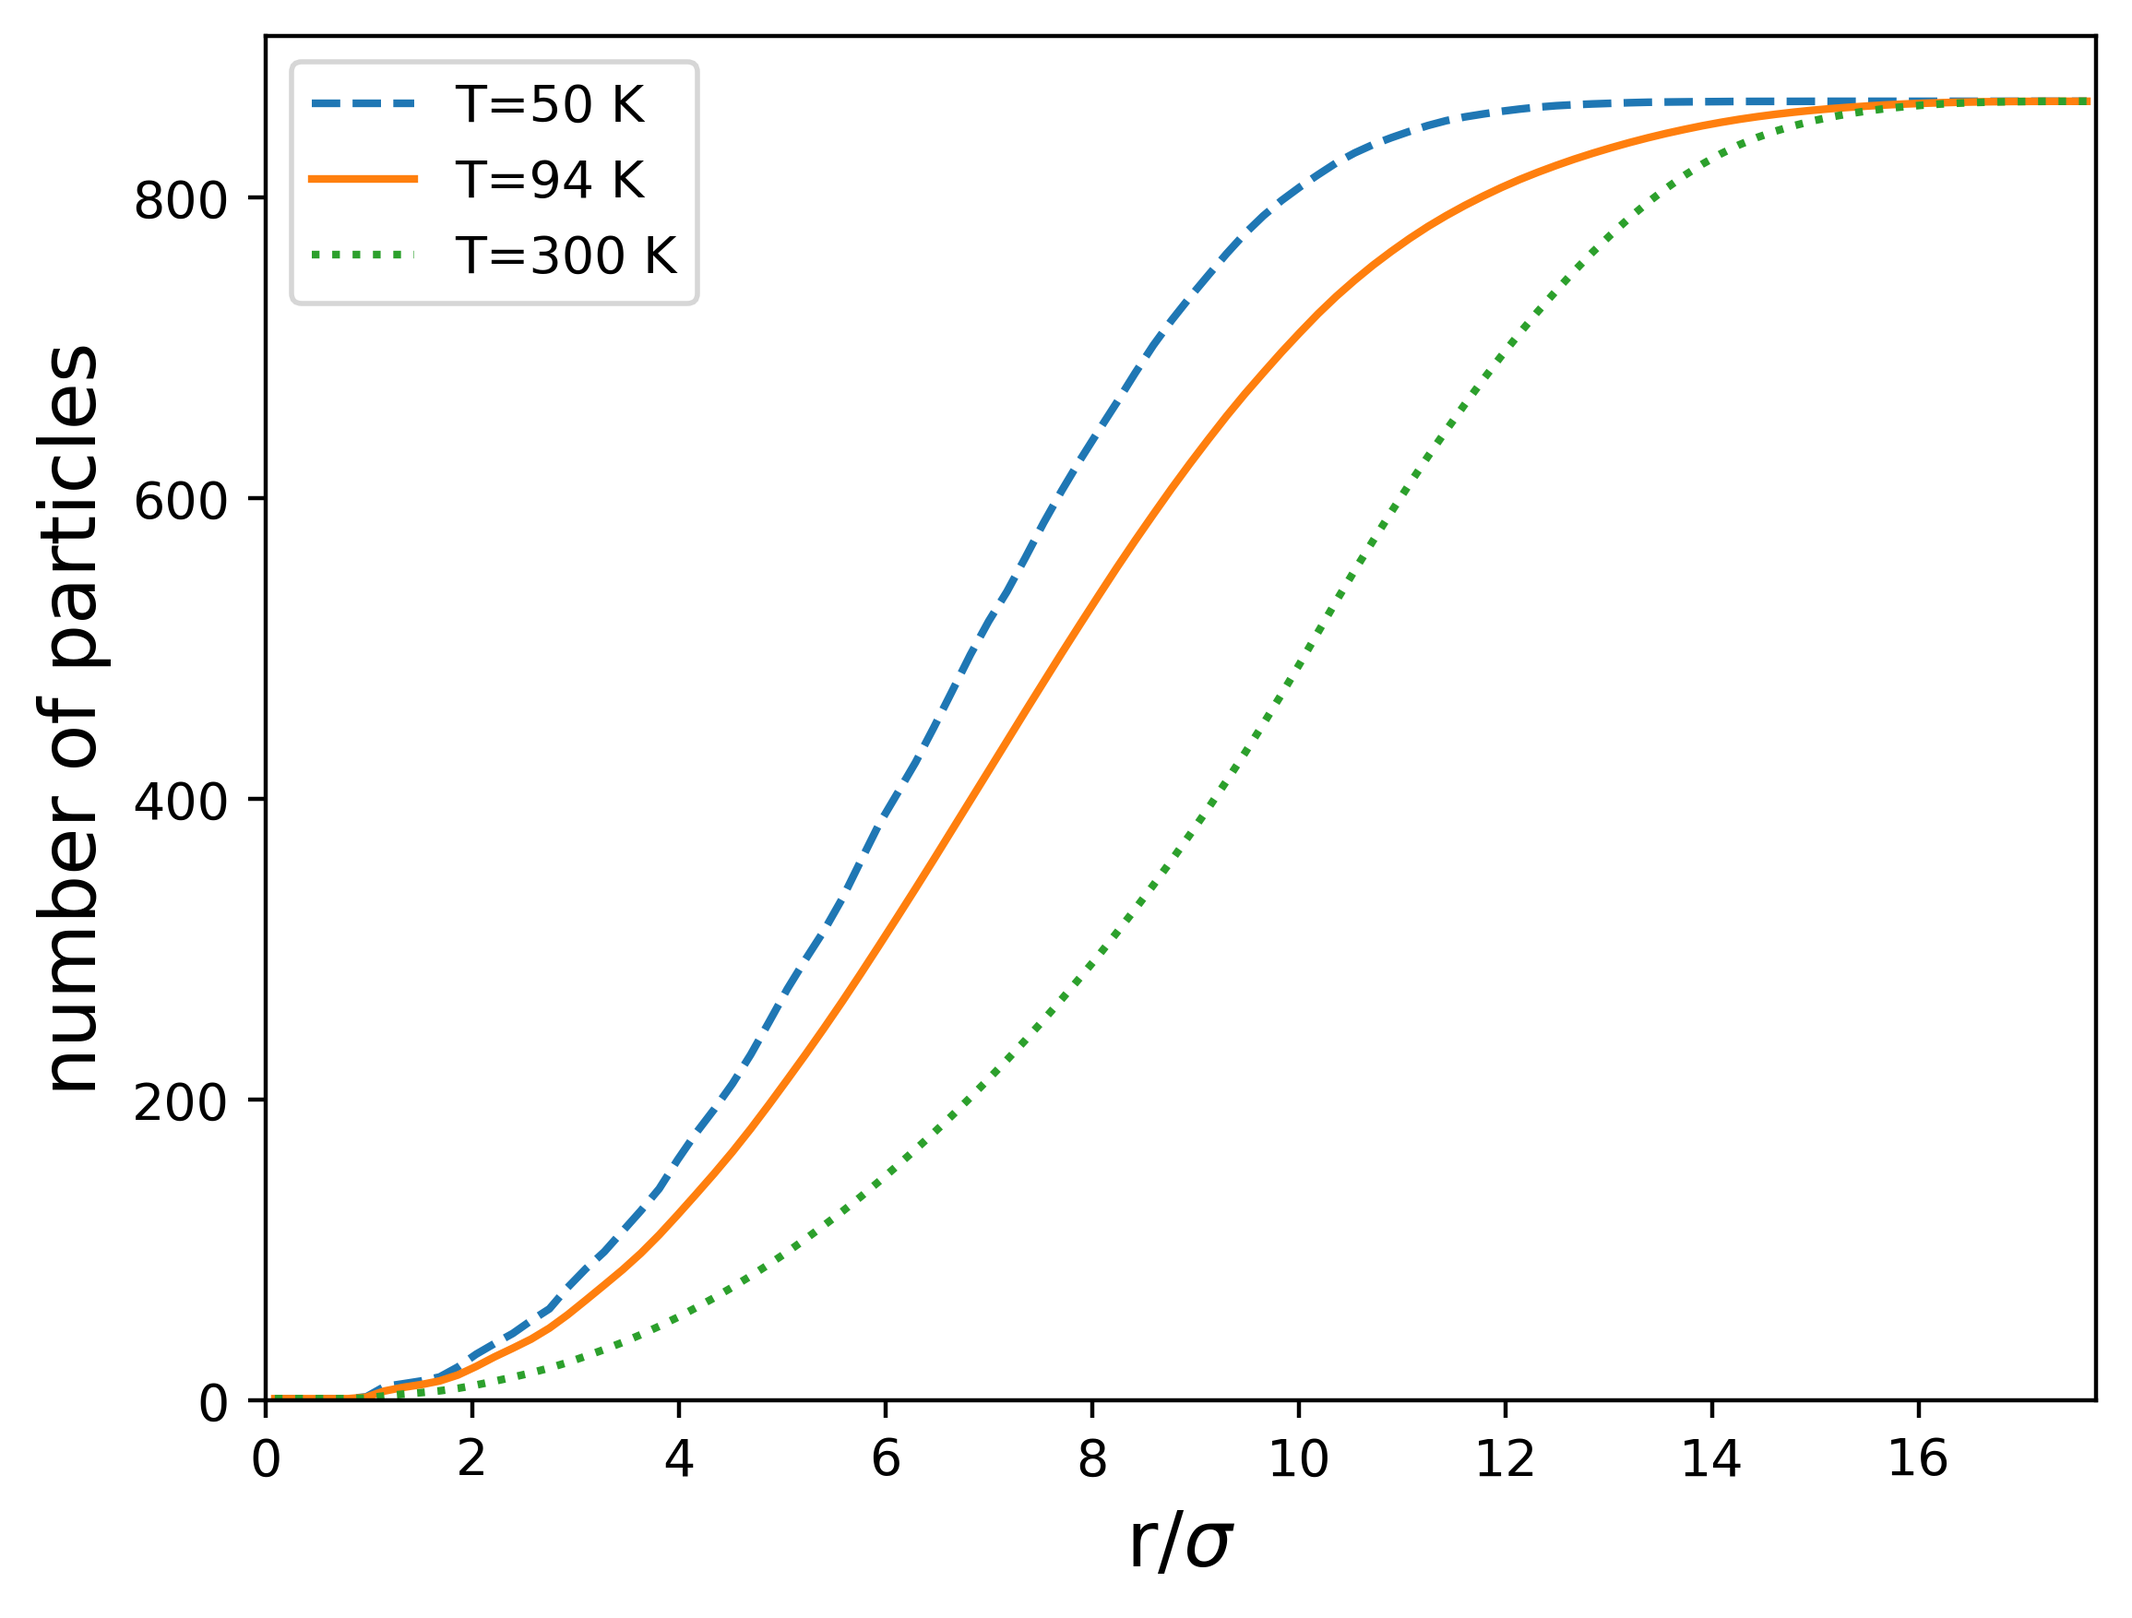
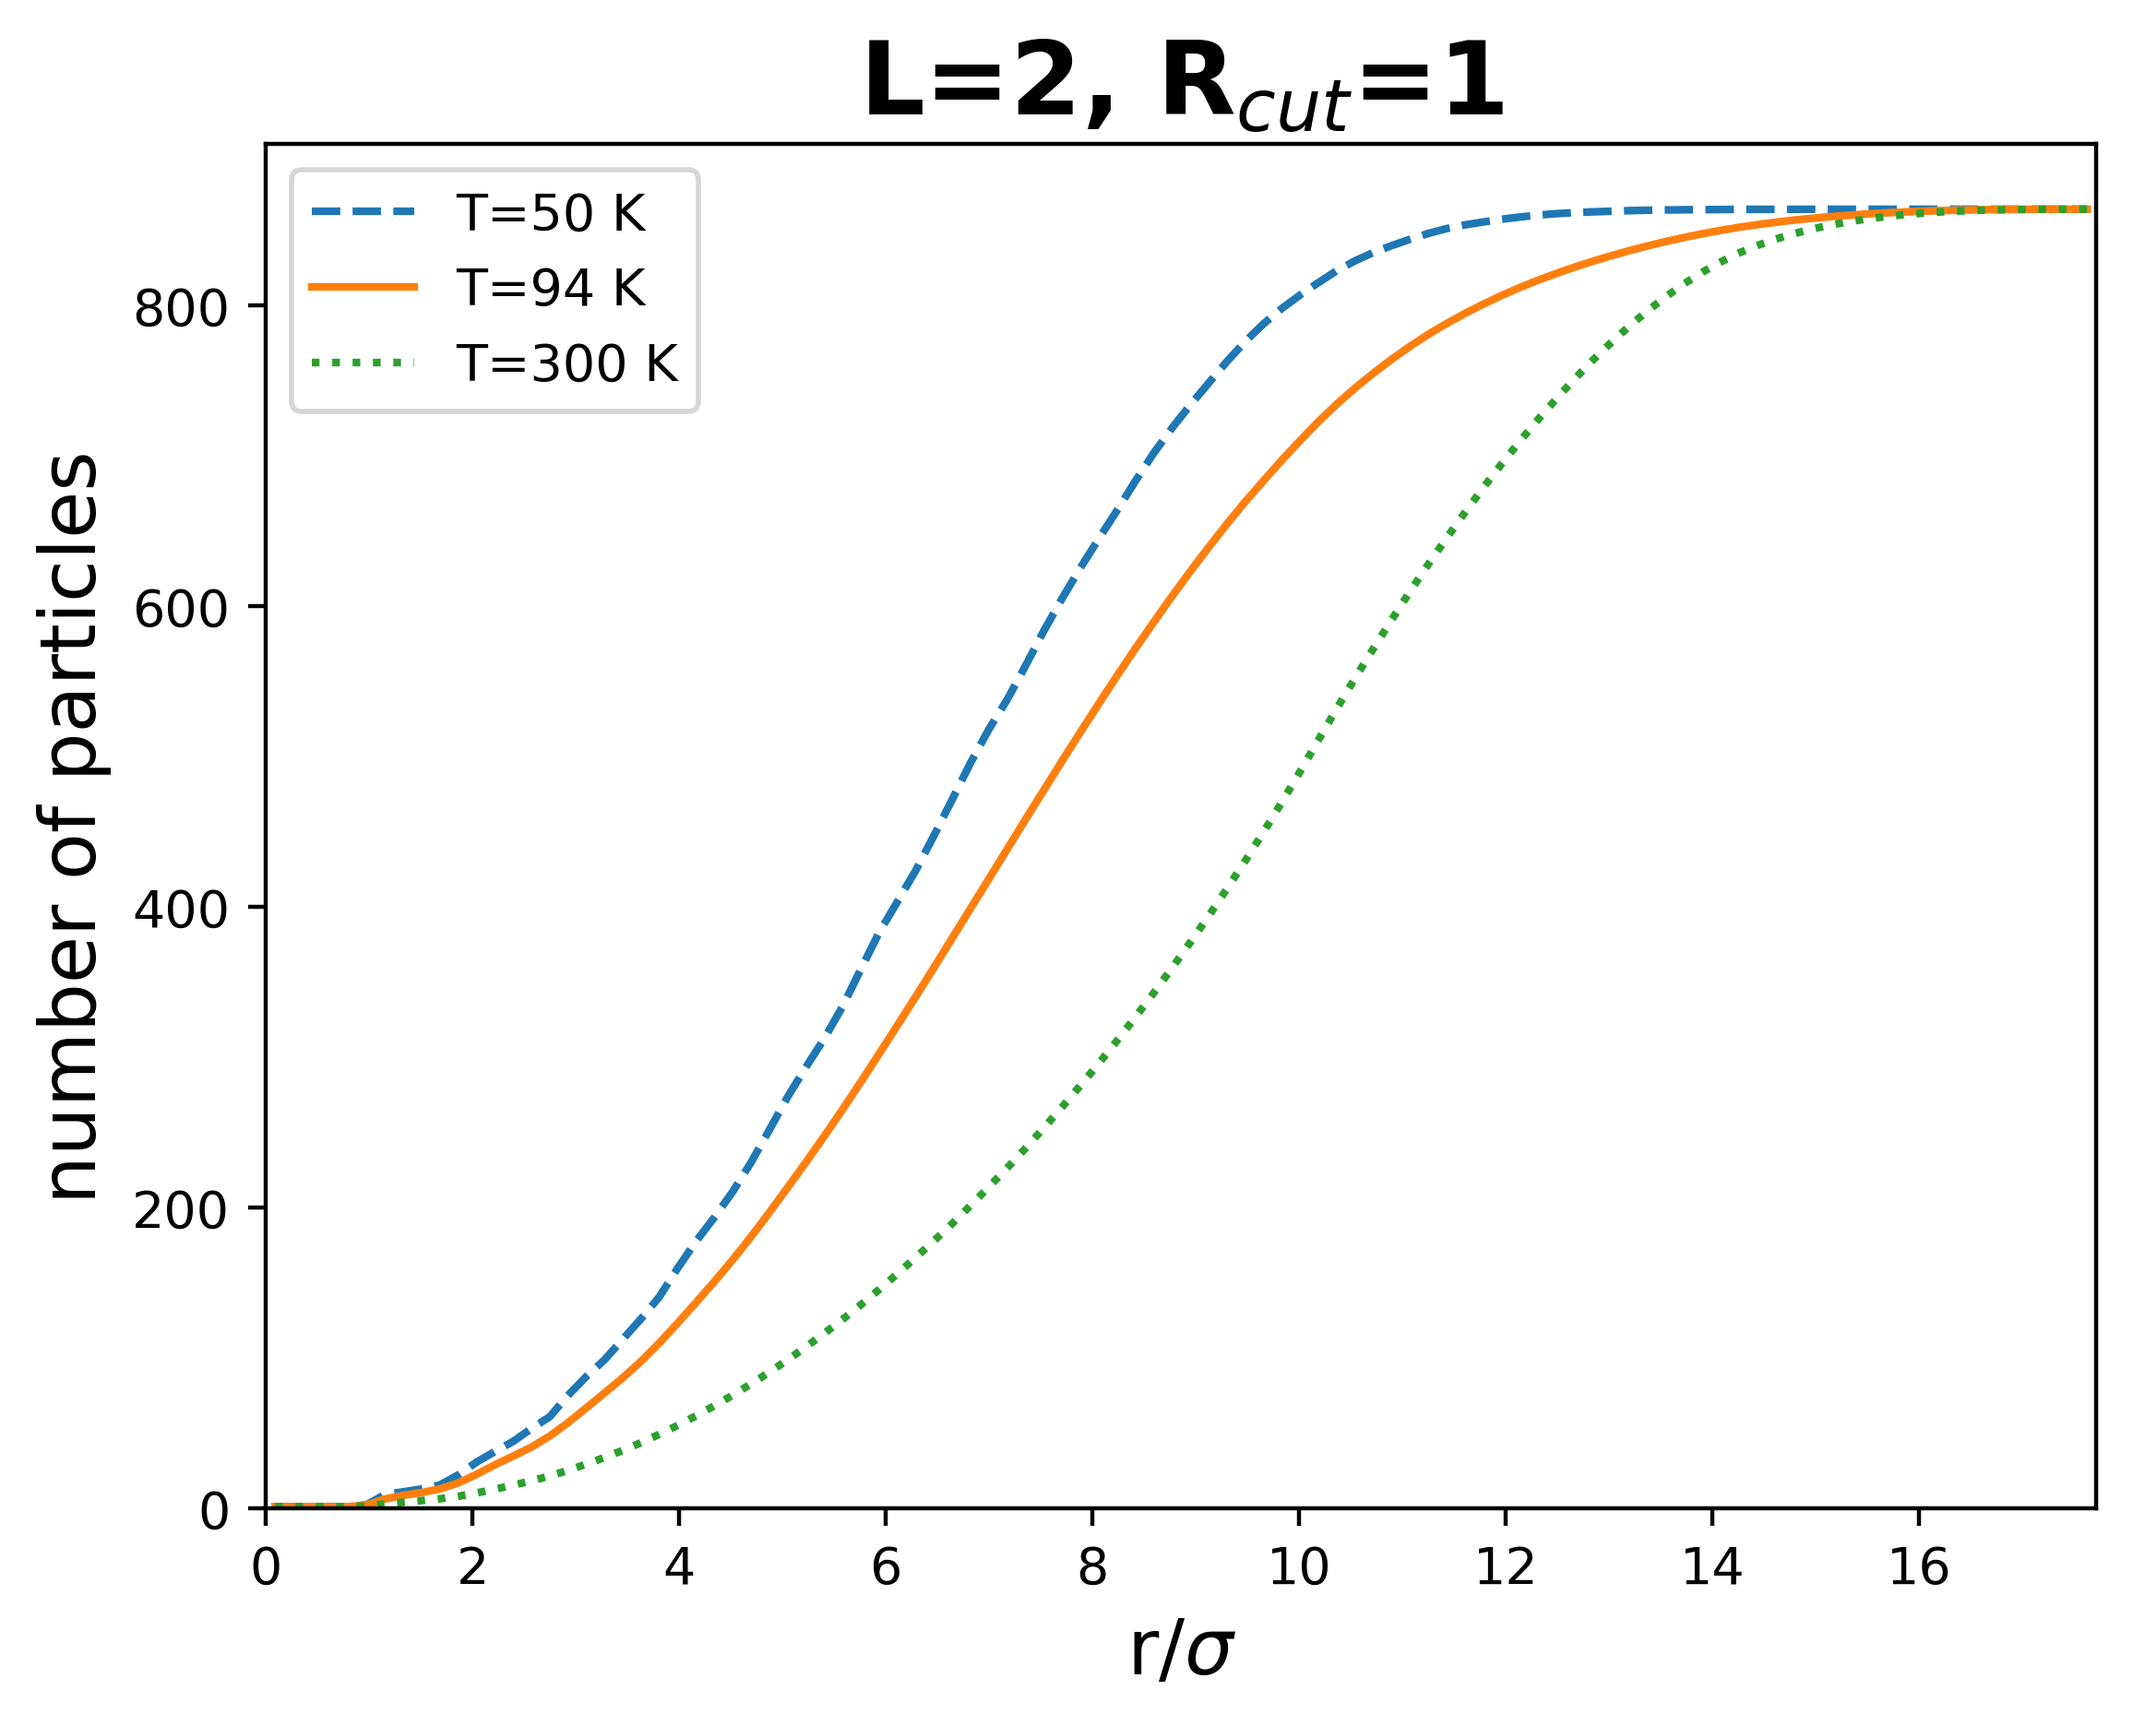
include titles to graphs

diff --git a/instances.py b/instances.py
@@ -9,9 +9,9 @@ import time
 file_format = "png"
 dpi = 400
 
-temp = 94
+temp = 50
 thermo_rate = 10
-box_scale = 2
+box_scale = 1
 rcut_scale = 1
 equilibration = 500
 Niter = 2000
@@ -30,7 +30,7 @@ ins = MolDyn(
 )
 # time the execution
 start = time.time()
-ins.run_md()
+# ins.run_md()
 end = time.time()
 print("execution time: ", end - start)
 
@@ -51,6 +51,7 @@ ins = Plots(
 
 fig, ax = plt.subplots()
 ins.plot_temp(start_time=500, fig=fig, ax=ax)
+
 fig.savefig(
     f"plots/temperatures_T{temp}_L{box_scale}_Rc{rcut_scale}_Tr{thermo_rate}_Eq{equilibration}_step{Niter}.{file_format}",
     bbox_inches="tight",
@@ -75,6 +76,11 @@ ins = Plots(
 )
 fig, ax = plt.subplots()
 ins.plot_rdf(label=f"T={temp} K", fmt="o-", fig=fig, ax=ax)
+ax.set_title(
+    rf"T={temp} K, L={box_scale}, R$_{{cut}}$={rcut_scale}",
+    fontsize=20,
+    fontweight="bold",
+)
 fig.savefig(
     f"plots/rdf_T{temp}_L{box_scale}_Rc{rcut_scale}_Tr{thermo_rate}_Eq{equilibration}_step{Niter}.{file_format}",
     bbox_inches="tight",
@@ -118,13 +124,16 @@ fig, ax = plt.subplots()
 ins_50.plot_rdf(label="T=50 K", fmt="o-", fig=fig, ax=ax)
 ins_94.plot_rdf(label="T=94 K", fmt="s-", fig=fig, ax=ax)
 ins_300.plot_rdf(label="T=300 K", fmt="^-", fig=fig, ax=ax)
-# fig.savefig(
-#     f"plots/rdf_combined_L{box_scale}_Rc{rcut_scale}_Tr{thermo_rate}_Eq{equilibration}_step{Niter}.{file_format}",
-#     bbox_inches="tight",
-#     dpi=dpi,
-# )
-ax.set_xlim(0,ins_50.L*np.sqrt(3)/(2*ins_50.sigma))
-ax.axhline(1, 0, ins_50.L * np.sqrt(3) / (2 * ins_50.sigma))
+ax.set_title(
+    rf"L={box_scale}, R$_{{cut}}$={rcut_scale}",
+    fontsize=20,
+    fontweight="bold",
+)
+fig.savefig(
+    f"plots/rdf_combined_L{box_scale}_Rc{rcut_scale}_Tr{thermo_rate}_Eq{equilibration}_step{Niter}.{file_format}",
+    bbox_inches="tight",
+    dpi=dpi,
+)
 # %%
 """
 CDF Plot
@@ -133,6 +142,11 @@ fig, ax = plt.subplots()
 ins_50.plot_cdf(label=f"T=50 K", fig=fig, ax=ax, linestyle="--")
 ins_94.plot_cdf(label=f"T=94 K", fig=fig, ax=ax, linestyle="-")
 ins_300.plot_cdf(label=f"T=300 K", fig=fig, ax=ax, linestyle=":")
+ax.set_title(
+    rf"L={box_scale}, R$_{{cut}}$={rcut_scale}",
+    fontsize=20,
+    fontweight="bold",
+)
 fig.savefig(
     f"plots/cdf_combined_L{box_scale}_Rc{rcut_scale}_Tr{thermo_rate}_Eq{equilibration}_step{Niter}.{file_format}",
     bbox_inches="tight",
@@ -149,7 +163,6 @@ ax.axhline(
 ax.axhline(
     12 + 6 + 24, 0, ins_50.Rcut / ins.sigma, color="black", linestyle=":", linewidth=1
 )
-
 fig.savefig(
     f"plots/cdf_combined_L{box_scale}_Rc{rcut_scale}_Tr{thermo_rate}_Eq{equilibration}_step{Niter}_zoom.{file_format}",
     bbox_inches="tight",

diff --git a/Plots.py b/Plots.py
@@ -33,6 +33,12 @@ class Plots(RDF):
         np.mean(self.temp_arr[start_time:])
         ax.set_xlabel(r"timestep (t/$\Delta$t)", fontsize=15)
         ax.set_ylabel("Temperature (K)", fontsize=15)
+        ax.set_xlim(start_time, self.Niter)
+        ax.set_title(
+            rf"T={self.Temp} K, L={self.box_scale}, R$_{{cut}}$={self.rcut_scale}",
+            fontsize=20,
+            fontweight="bold",
+        )
 
     def plot_rdf(
         self,
@@ -53,7 +59,7 @@ class Plots(RDF):
         )
         ax.set_ylabel("radial distribution function", fontsize=15)
         ax.set_xlabel(r"r/$\sigma$", fontsize=15)
-        ax.set_xlim(0, 5)
+        ax.set_xlim(0, self.L * np.sqrt(3) / (4 * self.sigma))
         ax.set_ylim(0)
         ax.legend()
 
@@ -68,7 +74,7 @@ class Plots(RDF):
 
     def make_animation(self, frame_folder):
         ax = plt.figure().add_subplot(projection="3d")
-        plt.subplots_adjust(right=1, top=1, left=0, bottom=0)
+        plt.subplots_adjust(right=1, top=0.92, left=0, bottom=0)
         for t in np.linspace(0, self.Niter, num=50, endpoint=False):
             t = int(t)
             ax.clear()
@@ -83,6 +89,11 @@ class Plots(RDF):
                 self.pos_config[t, :, 1] / 1e-10,
                 self.pos_config[t, :, 2] / 1e-10,
             )
+            plt.title(
+                rf"T={self.Temp} K, L={self.box_scale}, R$_{{cut}}$={self.rcut_scale}",
+                fontsize=20,
+                fontweight="bold",
+            )
             plt.savefig(f"{frame_folder}/{t}.png", dpi=100)
 
         frames = [
@@ -90,7 +101,7 @@ class Plots(RDF):
         ]
         frame_one = frames[0]
         frame_one.save(
-            f"animate_T{self.Temp}_L{self.box_scale}_Rc{self.rcut_scale}_Tr{self.thermo_rate}_Eq{self.equilibration}_step{self.Niter}.gif",
+            f"plots/animate_T{self.Temp}_L{self.box_scale}_Rc{self.rcut_scale}_Tr{self.thermo_rate}_Eq{self.equilibration}_step{self.Niter}.gif",
             format="GIF",
             append_images=frames,
             save_all=True,

diff --git a/compare_rcut.py b/compare_rcut.py
@@ -42,8 +42,11 @@ ins_2 = Plots(
 fig, ax = plt.subplots()
 ins_1.plot_rdf(label=r"$R_{cut}=1$", fmt="o-", fig=fig, ax=ax)
 ins_2.plot_rdf(label=r"$R_{cut}=2$", fmt="s-", fig=fig, ax=ax)
-ax.set_xlim(0, 6)
-
+ax.set_title(
+    rf"T={temp} K, L={box_scale}",
+    fontsize=20,
+    fontweight="bold",
+)
 fig.savefig(
     f"plots/rdf_combined_T{temp}_L{box_scale}_Tr{thermo_rate}_Eq{equilibration}_step{Niter}.{file_format}",
     bbox_inches="tight",
@@ -57,6 +60,11 @@ CDF Plot
 fig, ax = plt.subplots()
 ins_1.plot_cdf(label=r"$R_{cut}=1$", fig=fig, ax=ax, linestyle="--")
 ins_2.plot_cdf(label=r"$R_{cut}=2$", fig=fig, ax=ax, linestyle="-")
+ax.set_title(
+    rf"T={temp} K, L={box_scale}",
+    fontsize=20,
+    fontweight="bold",
+)
 fig.savefig(
     f"plots/cdf_combined_T{temp}_L{box_scale}_Tr{thermo_rate}_Eq{equilibration}_step{Niter}.{file_format}",
     bbox_inches="tight",
@@ -72,6 +80,22 @@ ax.axhline(
 )
 ax.axhline(
     12 + 6 + 24, 0, ins_2.Rcut / ins_1.sigma, color="black", linestyle=":", linewidth=1
+)
+ax.axhline(
+    12 + 6 + 24 + 12,
+    0,
+    ins_2.Rcut / ins_1.sigma,
+    color="black",
+    linestyle=":",
+    linewidth=1,
+)
+ax.axhline(
+    12 + 6 + 24 + 12 + 24,
+    0,
+    ins_2.Rcut / ins_1.sigma,
+    color="black",
+    linestyle=":",
+    linewidth=1,
 )
 fig.savefig(
     f"plots/cdf_combined_T{temp}_L{box_scale}_Tr{thermo_rate}_Eq{equilibration}_step{Niter}_zoom.{file_format}",
